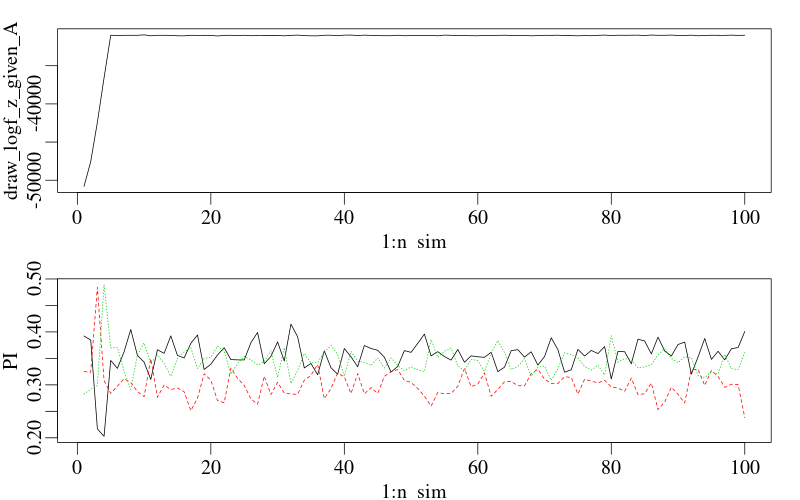
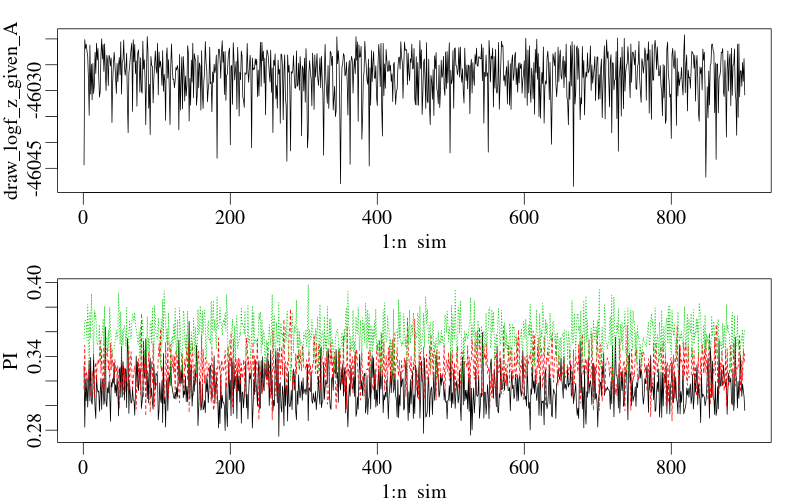
all SBM C++ files

diff --git a/Code/sbm_R/update_z_2.cpp b/Code/sbm_R/update_z_2.cpp
@@ -1,0 +1,37 @@
+// [[Rcpp::depends(RcppArmadillo)]]
+#include <RcppArmadilloExtensions/sample.h>
+#include <Rcpp.h>
+using namespace Rcpp;
+
+// [[Rcpp::export]]
+NumericVector update_z(NumericVector zs, NumericMatrix A, NumericMatrix Ps,NumericVector pis,NumericVector classes) 
+{
+    int n = zs.length();
+    int K0 = Ps.ncol();
+    NumericVector z_ret(n);
+    for(int i = 0; i < n; i ++)
+    {
+        NumericVector pi_star(K0);
+        for(int k = 0; k < K0; k++)
+        {
+            pi_star[k] = pis[k];
+            for(int j = 0; j < n; j++)
+            {
+                if(i != j)
+                {
+                    pi_star[k] = pi_star[k] * 
+                        pow(Ps(k,zs[j]-1),A(i,j)) * 
+                        pow((1 - Ps(k,zs[j]-1)),(1-A(i,j)));
+                }
+            }
+            //Rcout << i << "," << k << ":" << pi_star[k] << std::endl;
+        }
+        pi_star = pi_star / sum(pi_star);
+        //Rcout << i << ":" << pi_star << std::endl;
+        NumericVector zi = Rcpp::RcppArmadillo::sample(classes,1,TRUE,pi_star);
+        z_ret[i] = zi[0];
+    }
+    return z_ret;
+}
+
+

diff --git a/Code/sbm_R/logf_z_given_A.cpp b/Code/sbm_R/logf_z_given_A.cpp
@@ -1,0 +1,20 @@
+#include <Rcpp.h>
+using namespace Rcpp;
+
+// [[Rcpp::export]]
+double logf_z_given_A(NumericVector zs, NumericMatrix A, NumericVector pis, NumericMatrix Ps) {
+  double logf_z_given_A = 0;
+  int n = zs.length();
+  for(int i = 0; i < n; i++)
+  {
+      logf_z_given_A = logf_z_given_A + log(pis[zs[i]-1]);
+  }
+  for(int i = 0; i < n-1; i++)
+  {
+      for(int j = i + 1; j < n; j++)
+      {
+          logf_z_given_A = logf_z_given_A + A(i,j)*log(Ps(zs[i]-1,zs[j]-1)) + (1.0-A(i,j))*log(1.0-Ps(zs[i]-1,zs[j]-1));
+      }
+  }
+  return logf_z_given_A;
+}

diff --git a/Code/sbm_R/sample_SBM_fast.cpp b/Code/sbm_R/sample_SBM_fast.cpp
@@ -10,7 +10,7 @@ NumericVector sample_SBM_fast(NumericVector z, NumericMatrix P)
     {
         for(int j = 0; j < i; j++)
         {
-            int aij = R::rbinom(1,P(z[i],z[j]));
+            int aij = R::rbinom(1,P(z[i] - 1,z[j] - 1));
             A(i,j) = aij;
             A(j,i) = aij;
         }
